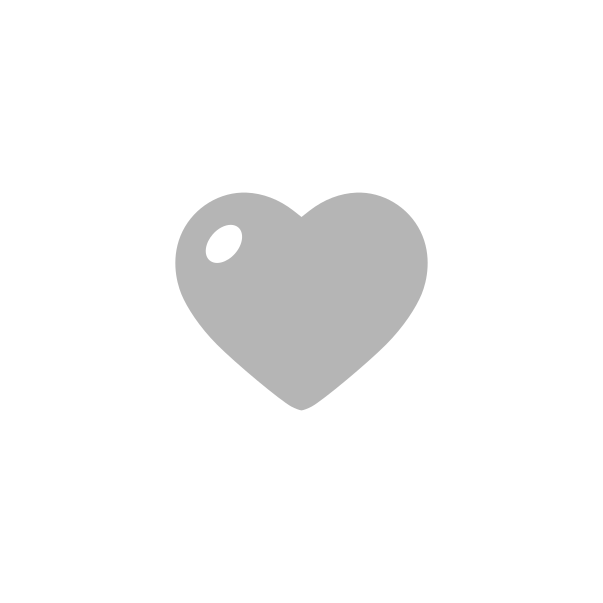
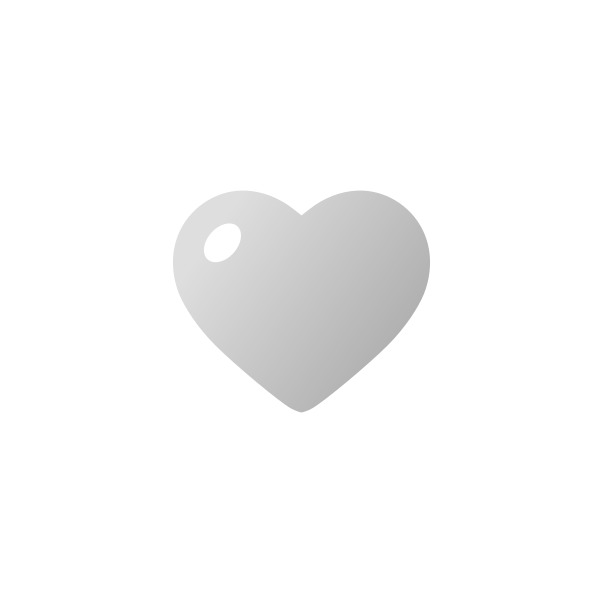
fix size heart

diff --git a/style.css b/style.css
@@ -442,7 +442,7 @@ body {
 
 /* Estado base (0) */
 .heart-grey-btn {
-    background-image: url('https://i.postimg.cc/fyF37zYc/image.png');
+    background-image: url('https://i.postimg.cc/KvKQqX2J/image.png');
     background-size: 70%;
     background-position: center;
     background-repeat: no-repeat;
@@ -450,29 +450,29 @@ body {
 
 /* Estado 1 → +0.5% */
 .heart-active-1 {
-    background-image: url('https://i.postimg.cc/ry0HDRHV/1.png');
+    background-image: url('https://i.postimg.cc/X7ZxHMbs/0-5.png');
     filter: brightness(1.2);
 }
 
 /* Estado 2 → +1% */
 .heart-active-2 {
-    background-image: url('https://i.postimg.cc/fWtPVSPM/2.png');
+    background-image: url('https://i.postimg.cc/c4KT9qS9/1.png');
     filter: brightness(1.2);
 }
 /* Estado 3 → +3% */
 .heart-active-3 {
-    background-image: url('https://i.postimg.cc/y6gGD3GV/3.png');
+    background-image: url('https://i.postimg.cc/59KnS4ZZ/3.png');
     filter: brightness(1.2);
 }
 /* Estado 3 → +5% */
 .heart-active-4 {
-    background-image: url('https://i.postimg.cc/90W5vhKP/5.png');
+    background-image: url('https://i.postimg.cc/657zjsXz/5.png');
     filter: brightness(1.2);
 }
 
 /* Estado 4 → +8% */
 .heart-active-5 {
-    background-image: url('https://i.postimg.cc/PJtsBj9Q/8.png');
+    background-image: url('https://i.postimg.cc/1R7JrmLk/8.png');
     filter: brightness(1.2);
 }
 /* MORALE — 0% */
